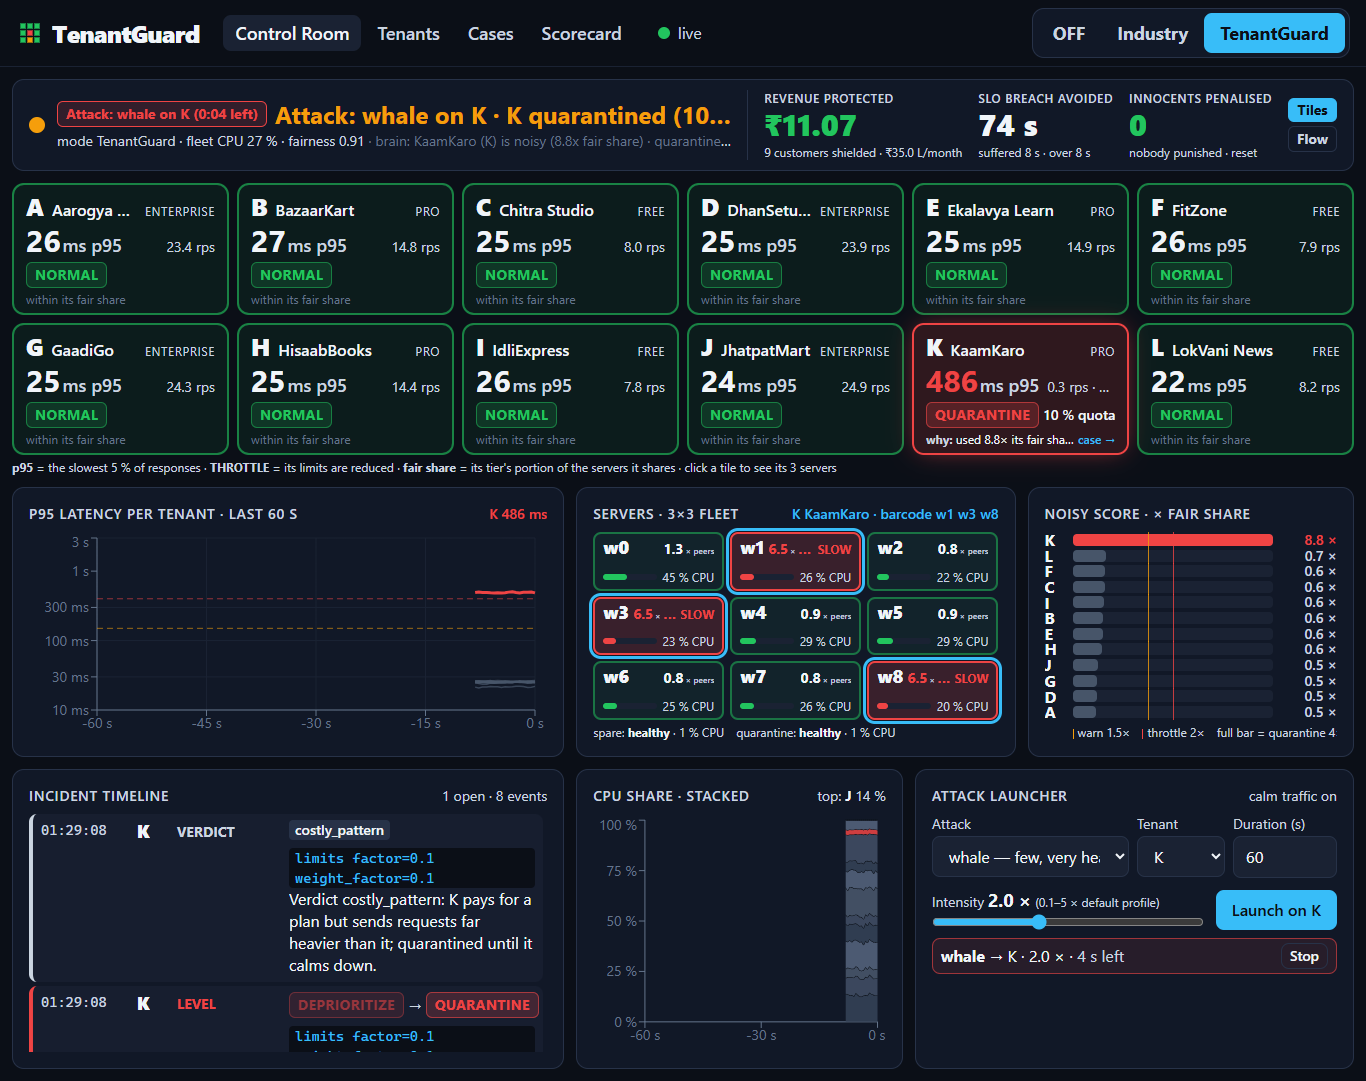
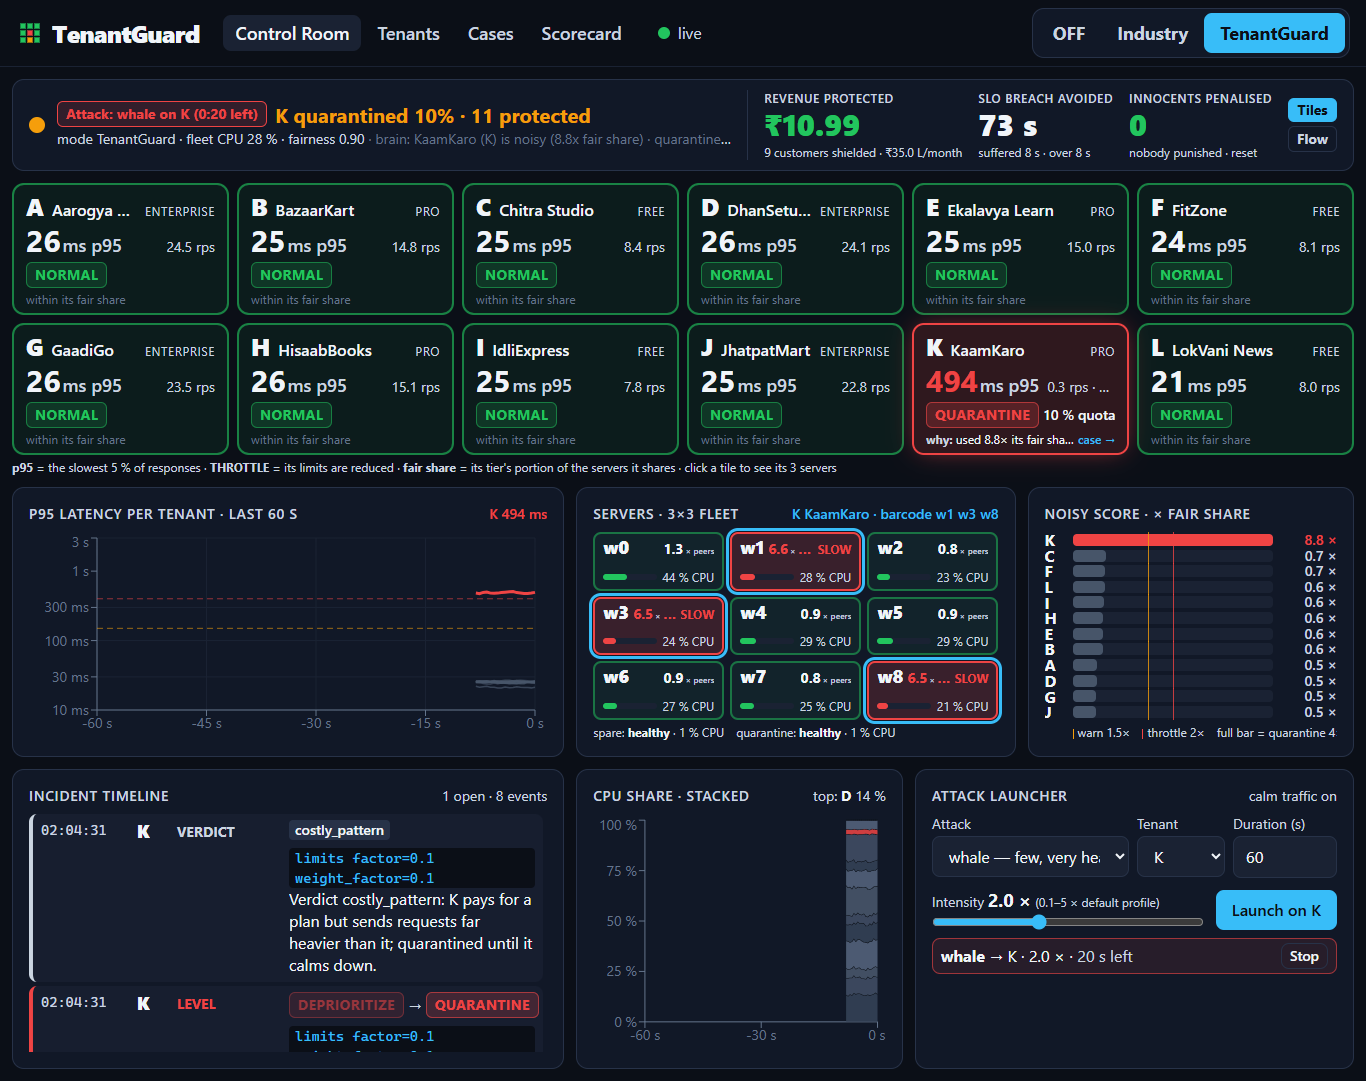
T30: headline always readable in full (short templates, wraps to two lines, no ellipsis); Flow view explains rerouting or why none is needed

diff --git a/ui/src/lib/headline.ts b/ui/src/lib/headline.ts
@@ -1,16 +1,17 @@
-// The one-line Control Room headline, built from structured data instead of the brain's long
-// sentence (pure, unit tested). The brain sentence stays available as a tooltip.
+// The Control Room headline, built from structured data instead of the brain's long sentence
+// (pure, unit tested). It must always be readable in full (never an ellipsis), so the templates
+// are short; the brain sentence stays available as a tooltip on the details line.
 //   "No attack · 12 tenants healthy"
-//   "Attack: whale on K · 9 tenants protected"
-//   "K throttled to 50% of plan · 9 tenants protected"
-//   "Server w4 slow · 4 tenants moved away · no tenant blamed"
+//   "whale on K · K throttled 50% · 11 protected"
+//   "K watched · 11 protected"
+//   "w4 slow · 4 rerouted · no one blamed"
 import type { OverridesView, StateSnapshot, TenantView } from '../types.ts'
 import type { Scenario } from './scenario.ts'
 import { tenantStatus, worst, type Status, type Thresholds } from './status.ts'
 
 export interface Headline {
   tone: Status
-  /** one short line */
+  /** short, always shown in full (wraps to at most two lines) */
   text: string
   /** small second line (truncated in the UI) */
   details: string
@@ -19,7 +20,7 @@ export interface Headline {
 const plural = (n: number, word: string) => `${n} ${word}${n === 1 ? '' : 's'}`
 
 const ACTION: Record<string, string> = {
-  warn: 'under watch',
+  warn: 'watched',
   throttle: 'throttled',
   deprioritize: 'deprioritized',
   quarantine: 'quarantined',
@@ -29,7 +30,7 @@ const ACTION: Record<string, string> = {
 function actionText(t: TenantView): string {
   const verb = ACTION[t.level] ?? t.level
   const pct = Math.round(t.factor * 100)
-  return t.level !== 'warn' && pct < 100 ? `${verb} (${pct}% of plan)` : verb
+  return t.level !== 'warn' && pct < 100 ? `${verb} ${pct}%` : verb
 }
 
 export function buildHeadline(
@@ -52,24 +53,26 @@ export function buildHeadline(
   const attack = scenario.attacks[0]
   const off = s.mode === 'off'
   const prefix = off ? 'Defences OFF · ' : ''
-  const tail = hurt ? plural(hurt, 'tenant') + ' slowed' : plural(healthy, 'tenant') + (flagged.length || attack || slow.length ? ' protected' : ' healthy')
+  const acting = flagged.length > 0 || !!attack || slow.length > 0
+  const tail = hurt ? `${hurt} slowed` : acting ? `${healthy} protected` : `${plural(healthy, 'tenant')} healthy`
 
   const parts: string[] = []
-  if (attack && opts.includeAttack !== false) parts.push(`Attack: ${attack.attack} on ${attack.tenant ?? attack.server}`)
+  if (attack && opts.includeAttack !== false) parts.push(`${attack.attack} on ${attack.tenant ?? attack.server}`)
   if (flagged.length === 1) parts.push(`${flagged[0].tenant} ${actionText(flagged[0])}`)
   else if (flagged.length > 1) {
     const top = flagged.slice(0, 3).map((t) => t.tenant).join(', ')
-    parts.push(`${plural(flagged.length, 'tenant')} acted on (${top}${flagged.length > 3 ? ', …' : ''})`)
+    parts.push(`${flagged.length} acted on: ${top}${flagged.length > 3 ? ` +${flagged.length - 3}` : ''}`)
   }
   if (slow.length && !flagged.length) {
     const moved = overrides ? Object.keys(overrides.route_weights ?? {}).length : s.tenants.filter((t) => (barcodes[t.tenant] ?? []).some((sv) => slow.includes(sv))).length
-    parts.push(`${slow.length === 1 ? `Server ${slow[0]}` : `Servers ${slow.join(', ')}`} slow`)
-    if (moved) parts.push(`${plural(moved, 'tenant')} moved away`)
-    if (!flagged.length) parts.push('no tenant blamed')
+    parts.push(`${slow.slice(0, 3).join(', ')}${slow.length > 3 ? ` +${slow.length - 3}` : ''} slow`)
+    if (moved) parts.push(`${moved} rerouted`)
+    parts.push('no one blamed')
   }
   // with the lab offline we cannot know whether an attack is running: say what we observe
   if (!parts.length) parts.push(scenario.kind === 'idle' ? 'No traffic' : scenario.kind === 'unknown' ? 'No attack detected' : 'No attack')
-  parts.push(idle === s.tenants.length ? 'no tenant has traffic' : tail)
+  if (idle !== s.tenants.length) parts.push(tail)
+  else if (!parts.includes('No traffic')) parts.push('no traffic')
 
   const tone: Status =
     hurt || (off && attack) ? worst(others.map((t) => status.get(t.tenant) ?? 'idle')) : flagged.length || slow.length || attack ? 'warn' : idle === s.tenants.length ? 'idle' : 'ok'

diff --git a/ui/src/lib/clarity.test.ts b/ui/src/lib/clarity.test.ts
@@ -55,17 +55,17 @@ describe('headline', () => {
   })
   it('attack on K with the culprit throttled and neighbours protected', () => {
     const h = buildHeadline(snap({ K: { level: 'throttle', factor: 0.5, noisy_score: 3 } }), scenarioOf(lab({ attacks: [attack()] }), true, 1000), th, {}, null)
-    expect(h.text).toBe('Attack: whale on K · K throttled (50% of plan) · 11 tenants protected')
+    expect(h.text).toBe('whale on K · K throttled 50% · 11 protected')
     expect(h.tone).toBe('warn')
   })
   it('next to the scenario badge the attack is not repeated', () => {
     const h = buildHeadline(snap({ K: { level: 'quarantine', factor: 0.1, noisy_score: 8 } }), scenarioOf(lab({ attacks: [attack()] }), true, 1000), th, {}, null, { includeAttack: false })
-    expect(h.text).toBe('K quarantined (10% of plan) · 11 tenants protected')
+    expect(h.text).toBe('K quarantined 10% · 11 protected')
   })
 
   it('victims slowed in OFF mode', () => {
     const h = buildHeadline(snap({ A: { p95_ms: 900 }, B: { p95_ms: 200 } }, { mode: 'off' }), scenarioOf(lab({ attacks: [attack()] }), true, 1000), th, {}, null)
-    expect(h.text).toBe('Defences OFF · Attack: whale on K · 2 tenants slowed')
+    expect(h.text).toBe('Defences OFF · whale on K · 2 slowed')
     expect(h.tone).toBe('bad')
   })
   it('a slow server with no culprit', () => {
@@ -73,28 +73,37 @@ describe('headline', () => {
     s.servers[4].status = 'slow'
     const ov = { limits: {}, blocks: {}, relocations: [], drains: {}, expires_at: {}, fail_static: false, route_weights: { B: {}, E: {}, G: {}, L: {} } }
     const h = buildHeadline(s, calm, th, {}, ov)
-    expect(h.text).toBe('Server w4 slow · 4 tenants moved away · no tenant blamed · 12 tenants protected')
+    expect(h.text).toBe('w4 slow · 4 rerouted · no one blamed · 12 protected')
   })
   it('a tenant back at 100 % while its level catches up is not shown "throttled (100% of plan)"', () => {
     const h = buildHeadline(snap({ K: { level: 'throttle', factor: 0.999, noisy_score: 0.4 } }), calm, th, {}, null)
-    expect(h.text).toBe('K throttled · 11 tenants protected')
+    expect(h.text).toBe('K throttled · 11 protected')
     expect(tileReason(tv('K', { level: 'throttle', factor: 0.999, noisy_score: 0.4 }), undefined)?.text).toBe('recovering · back to its full plan')
     expect(tileReason(tv('K', { level: 'warn', noisy_score: 0.6 }), undefined)?.text).toBe('back within its fair share · still watched')
   })
 
   it('several tenants acted on are listed briefly', () => {
     const h = buildHeadline(snap({ A: { level: 'throttle', factor: 0.7 }, B: { level: 'throttle', factor: 0.6 }, G: { level: 'warn' } }), calm, th, {}, null)
-    expect(h.text).toBe('3 tenants acted on (A, B, G) · 9 tenants protected')
+    expect(h.text).toBe('3 acted on: A, B, G · 9 protected')
   })
   it('lab offline: says what it observes, not what it assumes', () => {
     const h = buildHeadline(snap(), scenarioOf(null, false, 1000), th, {}, null)
     expect(h.text).toBe('No attack detected · 12 tenants healthy')
   })
 
+  it('stays short even in the busiest case (never needs an ellipsis)', () => {
+    const many = Object.fromEntries('ABCDE'.split('').map((t) => [t, { level: 'throttle' as const, factor: 0.25, noisy_score: 3 }]))
+    const s = snap({ ...many, F: { p95_ms: 900 } }, { mode: 'off' })
+    s.servers[1].status = 'slow'
+    const h = buildHeadline(s, scenarioOf(lab({ attacks: [attack()] }), true, 1000), th, {}, null)
+    expect(h.text).toBe('Defences OFF · whale on K · 5 acted on: A, B, C +2 · 1 slowed')
+    expect(h.text.length).toBeLessThanOrEqual(64)
+  })
+
   it('no traffic at all', () => {
     const idle = Object.fromEntries(ALL.map((t) => [t, { p95_ms: 0, rps: 0 }]))
     const h = buildHeadline(snap(idle), scenarioOf(lab({ calm_running: false }), true, 1000), th, {}, null)
-    expect(h.text).toBe('No traffic · no tenant has traffic')
+    expect(h.text).toBe('No traffic')
     expect(h.tone).toBe('idle')
   })
 })

diff --git a/ui/src/lib/flow.ts b/ui/src/lib/flow.ts
@@ -2,7 +2,7 @@
 // tenant's next request? Mirrors gateway routing: relocation first, else route weights
 // (tenantguard mode), else equal weights over the barcode; drained servers are skipped unless
 // every candidate is drained (the gateway never black-holes a tenant).
-import type { OverridesView } from '../types.ts'
+import type { Mode, OverridesView, ServerView } from '../types.ts'
 
 export interface Route {
   server: string
@@ -33,4 +33,29 @@ export function pickServer(routes: Route[], u: number): string | null {
     if (u < acc) return r.server
   }
   return routes.length ? routes[routes.length - 1].server : null
+}
+
+export interface RerouteHint {
+  kind: 'rerouted' | 'refused' | 'off'
+  text: string
+}
+
+/**
+ * Why the flow view does (or does not) show reroute lines right now.
+ * During an attack the gateway's limits usually refuse the excess before any server gets slow,
+ * so no rescue (rerouting) is needed: say so, instead of letting the missing blue lines look broken.
+ */
+export function rerouteHint(ov: OverridesView | null, attacking: boolean, mode: Mode, servers: ServerView[]): RerouteHint | null {
+  const rw = ov?.route_weights ?? {}
+  const steered = new Set([...Object.keys(rw), ...(ov?.relocations ?? []).map((r) => r.tenant)])
+  if (steered.size) {
+    const avoided = new Set<string>()
+    for (const w of Object.values(rw)) for (const [sv, v] of Object.entries(w)) if (v <= 0) avoided.add(sv)
+    if (!avoided.size) for (const x of servers) if (x.status === 'slow') avoided.add(x.server)
+    const around = avoided.size ? ` around ${[...avoided].sort().join(', ')}` : ''
+    return { kind: 'rerouted', text: `↷ ${steered.size} tenant${steered.size === 1 ? '' : 's'} rerouted${around}` }
+  }
+  if (!attacking) return null
+  if (mode === 'off') return { kind: 'off', text: 'mode OFF: no limits and no rerouting, the attack reaches the servers' }
+  return { kind: 'refused', text: 'no rerouting needed: the excess is refused at the gateway (red ✕)' }
 }

diff --git a/ui/src/components/FlowView.tsx b/ui/src/components/FlowView.tsx
@@ -1,6 +1,8 @@
 import { useEffect, useRef } from 'react'
 import { config } from '../config.ts'
-import { pickServer, routeTable } from '../lib/flow.ts'
+import { pickServer, rerouteHint, routeTable } from '../lib/flow.ts'
+import { useLive, useNow } from '../lib/liveContext.ts'
+import { scenarioOf } from '../lib/scenario.ts'
 import { FLEET, serverStatus, STATUS_HEX, tenantStatus } from '../lib/status.ts'
 import type { OverridesView, StateSnapshot } from '../types.ts'
 
@@ -25,6 +27,10 @@ const EXTRA = ['spare', 'quarantine']
 
 /** Live request flow: tenant -> gateway -> server, sampled from snapshot rps. */
 export function FlowView({ snapshot, overrides, barcodes }: Props) {
+  const { lab, labReachable } = useLive()
+  const now = useNow()
+  const attacking = scenarioOf(lab, labReachable !== false && lab !== null, now).kind === 'attack'
+  const hint = rerouteHint(overrides, attacking, snapshot.mode, snapshot.servers)
   const canvasRef = useRef<HTMLCanvasElement>(null)
   const wrapRef = useRef<HTMLDivElement>(null)
   // the animation loop reads the latest data through refs (no re-subscribe per snapshot)
@@ -256,6 +262,15 @@ export function FlowView({ snapshot, overrides, barcodes }: Props) {
           <span className="text-accent">↷ ― rerouted (route weight = line width)</span>
         </div>
       </div>
+      {hint && (
+        <div
+          className={`mb-1 text-sm font-semibold ${hint.kind === 'rerouted' ? 'text-accent' : hint.kind === 'off' ? 'text-bad' : 'text-ink-100'}`}
+          data-testid="reroute-hint"
+          data-kind={hint.kind}
+        >
+          {hint.text}
+        </div>
+      )}
       <div ref={wrapRef} className="relative min-h-0 flex-1" data-testid="flow-view">
         <canvas ref={canvasRef} className="absolute inset-0" aria-label="Live request flow from tenants to servers" />
       </div>

diff --git a/ui/e2e/layout.spec.ts b/ui/e2e/layout.spec.ts
@@ -47,7 +47,7 @@ for (const size of SIZES) {
       expect(await page.evaluate(() => document.documentElement.scrollWidth <= window.innerWidth + 1)).toBe(true)
     })
 
-    test('the headline stays one fixed-height line while the state updates', async ({ page }) => {
+    test('the status bar keeps its height and the headline is always shown in full', async ({ page }) => {
       await page.goto('/?view=tiles')
       await expect(page.getByTestId('status-bar')).toBeVisible({ timeout: 20_000 })
       const status = page.locator('[data-panel="status"]')
@@ -57,11 +57,18 @@ for (const size of SIZES) {
         await page.waitForTimeout(500)
       }
       expect(new Set(heights).size, `status bar heights ${heights}`).toBe(1)
-      const lineHeight = await page.getByTestId('status-sentence').evaluate((el) => {
+      const head = await page.getByTestId('status-sentence').evaluate((el) => {
         const cs = getComputedStyle(el)
-        return { h: el.getBoundingClientRect().height, lh: parseFloat(cs.lineHeight) }
+        return {
+          h: el.getBoundingClientRect().height,
+          lh: parseFloat(cs.lineHeight),
+          clipped: el.scrollWidth > el.clientWidth + 1 || el.scrollHeight > el.clientHeight + 1,
+          ellipsis: cs.textOverflow === 'ellipsis',
+        }
       })
-      expect(lineHeight.h).toBeLessThanOrEqual(lineHeight.lh + 2) // one line
+      expect(head.h, 'headline wraps to at most two lines').toBeLessThanOrEqual(2 * head.lh + 2)
+      expect(head.clipped, 'headline text is not clipped').toBe(false)
+      expect(head.ellipsis, 'headline never uses an ellipsis').toBe(false)
       await expect(page.getByTestId('scenario-badge')).not.toBeEmpty()
     })
 

diff --git a/ui/src/lib/flow.test.ts b/ui/src/lib/flow.test.ts
@@ -1,6 +1,6 @@
 import { describe, expect, it } from 'vitest'
 import type { OverridesView } from '../types.ts'
-import { pickServer, tenantRoutes } from './flow.ts'
+import { pickServer, rerouteHint, tenantRoutes } from './flow.ts'
 
 const ov = (o: Partial<OverridesView>): OverridesView => ({
   limits: {}, blocks: {}, relocations: [], route_weights: {}, drains: {}, expires_at: {}, fail_static: false, ...o,
@@ -41,5 +41,17 @@ describe('flow routing model', () => {
     expect(pickServer(r, 0.5)).toBe('b')
     expect(pickServer(r, 0.9999)).toBe('b')
     expect(pickServer([], 0.5)).toBeNull()
+  })
+
+  it('reroute hint: rerouting active names the servers routed around', () => {
+    const h = rerouteHint(ov({ route_weights: { B: { w3: 1, w4: 0, w5: 1 }, E: { w1: 1, w4: 0, w7: 1 } } }), true, 'tenantguard', [])
+    expect(h).toEqual({ kind: 'rerouted', text: '↷ 2 tenants rerouted around w4' })
+  })
+
+  it('reroute hint: an attack with no rerouting explains that the gateway refused the excess', () => {
+    expect(rerouteHint(ov({}), true, 'tenantguard', [])).toEqual({ kind: 'refused', text: 'no rerouting needed: the excess is refused at the gateway (red ✕)' })
+    expect(rerouteHint(ov({}), true, 'off', [])?.kind).toBe('off')
+    expect(rerouteHint(ov({}), false, 'tenantguard', [])).toBeNull()
+    expect(rerouteHint(null, false, 'tenantguard', [])).toBeNull()
   })
 })

diff --git a/ui/src/components/StatusBar.tsx b/ui/src/components/StatusBar.tsx
@@ -27,7 +27,7 @@ export function StatusBar({ snapshot }: { snapshot: StateSnapshot }) {
     <div className="flex min-w-0 flex-1 items-center gap-3" data-testid="status-bar">
       <StatusDot status={h.tone} className="h-4 w-4" />
       <div className="min-w-0 flex-1">
-        <div className="flex min-w-0 items-center gap-2">
+        <div className="flex min-w-0 items-center gap-x-2">
           <span
             className={`shrink-0 whitespace-nowrap rounded-md border px-2 py-0.5 text-sm font-bold ${BADGE[scenario.kind]}`}
             data-testid="scenario-badge"
@@ -35,7 +35,8 @@ export function StatusBar({ snapshot }: { snapshot: StateSnapshot }) {
           >
             {scenario.label}
           </span>
-          <h1 className={`min-w-0 truncate text-2xl font-bold leading-tight ${TONE[h.tone]}`} data-testid="status-sentence" title={h.text}>
+          {/* always shown in full: short templates, wraps to at most two lines, never an ellipsis */}
+          <h1 className={`min-w-0 flex-1 text-xl font-bold leading-tight 2xl:text-2xl ${TONE[h.tone]}`} data-testid="status-sentence">
             {h.text}
           </h1>
         </div>

diff --git a/ui/e2e/ui.spec.ts b/ui/e2e/ui.spec.ts
@@ -151,9 +151,14 @@ test('Scorecard shows lab results by scenario and mode (or says why not)', async
   await expect(page.getByTestId('score-table').locator('tbody tr')).toHaveCount(scenarios * 3)
 })
 
-test('flow view toggle draws the live request flow and toggles back', async ({ page }) => {
+test('flow view toggle draws the live request flow and toggles back', async ({ page, request, services }) => {
   await openControlRoom(page)
   await page.getByTestId('view-flow').click()
+  // during an attack the flow view says why there are (or are not) reroute lines
+  const attackRunning =
+    services.lab &&
+    ((await (await request.get(`${URLS.lab}/lab/status`)).json()).attacks as { state: string }[]).some((a) => a.state === 'running')
+  if (attackRunning) await expect(page.getByTestId('reroute-hint')).toHaveAttribute('data-kind', /rerouted|refused|off/)
   const canvas = page.getByTestId('flow-view').locator('canvas')
   await expect(canvas).toBeVisible()
   await expect
